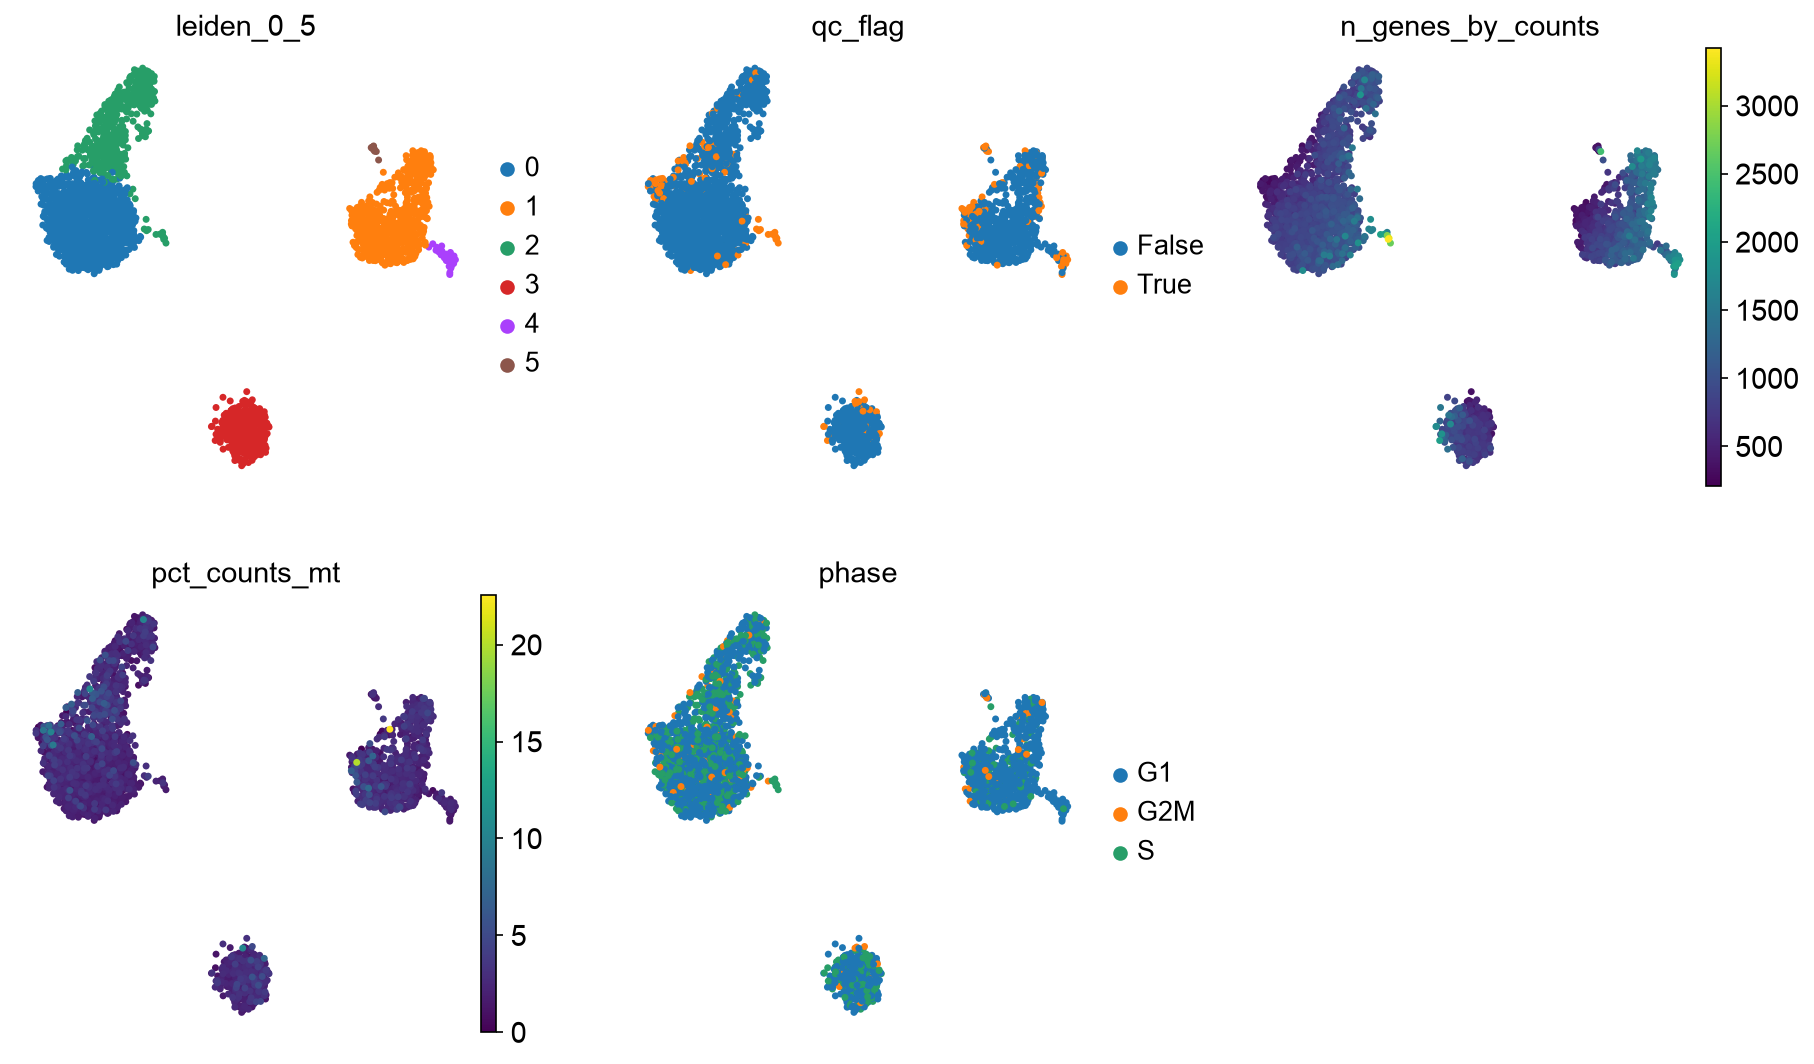
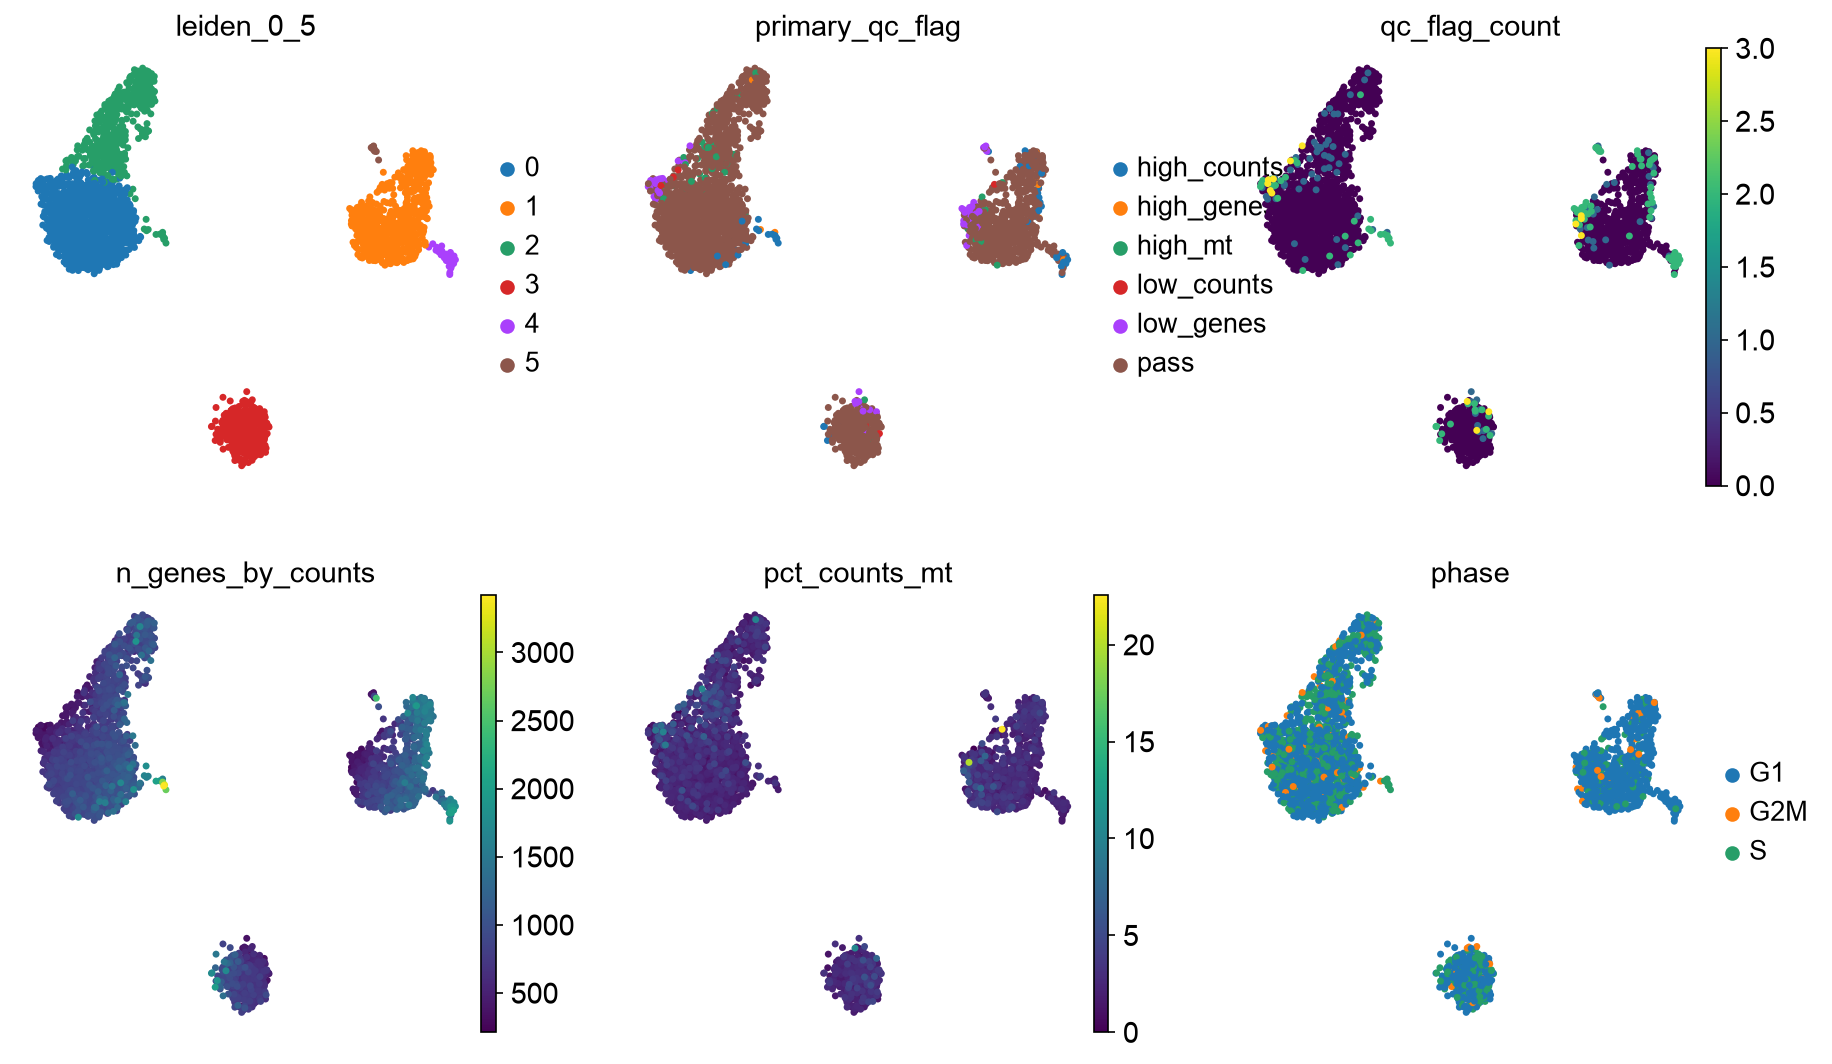
adding PC motivation

diff --git a/source/transcriptomics/scripts/generate_pbmc_scrna_figures.py b/source/transcriptomics/scripts/generate_pbmc_scrna_figures.py
@@ -5,6 +5,7 @@ import matplotlib
 matplotlib.use("Agg")
 
 import matplotlib.pyplot as plt
+from matplotlib.lines import Line2D
 import numpy as np
 import scanpy as sc
 
@@ -65,6 +66,29 @@ def score_cell_cycle(adata):
     sc.tl.score_genes_cell_cycle(adata, s_genes=s_present, g2m_genes=g2m_present)
 
 
+def encode_qc_flags(row):
+    labels = []
+
+    if row["qc_high_counts_low_genes"]:
+        labels.append("high_counts_low_genes")
+    else:
+        if row["qc_low_genes"]:
+            labels.append("low_genes")
+        if row["qc_high_counts"]:
+            labels.append("high_counts")
+
+    if row["qc_high_genes"]:
+        labels.append("high_genes")
+    if row["qc_low_counts"]:
+        labels.append("low_counts")
+    if row["qc_high_mt"]:
+        labels.append("high_mt")
+    if row["qc_predicted_doublet"]:
+        labels.append("predicted_doublet")
+
+    return ";".join(labels) if labels else "pass"
+
+
 def add_qc_flags(adata):
     thresholds = percentile_thresholds(adata)
     adata.uns["qc_thresholds"] = thresholds
@@ -100,6 +124,16 @@ def add_qc_flags(adata):
     ]
     adata.obs["qc_flag"] = adata.obs[qc_flag_columns].any(axis=1)
     adata.obs["qc_flag_count"] = adata.obs[qc_flag_columns].sum(axis=1)
+    adata.obs["qc_flags"] = adata.obs[qc_flag_columns].apply(
+        encode_qc_flags,
+        axis=1,
+    )
+    adata.obs["primary_qc_flag"] = (
+        adata.obs["qc_flags"]
+        .str.split(";")
+        .str[0]
+        .astype("category")
+    )
 
 
 def plot_percentile_thresholds(adata):
@@ -144,7 +178,18 @@ def plot_percentile_thresholds(adata):
 def plot_flagged_cells(adata):
     fig, axes = plt.subplots(1, 3, figsize=(14, 4), constrained_layout=True)
 
-    colors = adata.obs["qc_flag"].map({False: "#1f77b4", True: "#ff7f0e"})
+    flag_palette = {
+        "pass": "#1f77b4",
+        "high_counts_low_genes": "#d62728",
+        "low_genes": "#ff7f0e",
+        "high_counts": "#9467bd",
+        "high_genes": "#2ca02c",
+        "low_counts": "#8c564b",
+        "high_mt": "#e377c2",
+        "predicted_doublet": "#7f7f7f",
+    }
+    primary_flags = adata.obs["primary_qc_flag"].astype(str)
+    colors = primary_flags.map(flag_palette).fillna("#7f7f7f")
     axes[0].scatter(
         adata.obs["total_counts"],
         adata.obs["n_genes_by_counts"],
@@ -155,7 +200,23 @@ def plot_flagged_cells(adata):
     )
     axes[0].set_xlabel("total_counts")
     axes[0].set_ylabel("n_genes_by_counts")
-    axes[0].set_title("Any QC flag")
+    axes[0].set_title("Primary QC flag")
+    present_flags = [
+        flag for flag in flag_palette if flag in set(primary_flags)
+    ]
+    handles = [
+        Line2D(
+            [0],
+            [0],
+            marker="o",
+            color="white",
+            markerfacecolor=flag_palette[flag],
+            markersize=5,
+            label=flag,
+        )
+        for flag in present_flags
+    ]
+    axes[0].legend(handles=handles, frameon=False, fontsize=7, loc="best")
 
     colors = adata.obs["qc_high_mt"].map({False: "#1f77b4", True: "#ff7f0e"})
     axes[1].scatter(
@@ -246,7 +307,8 @@ def main():
         adata_work,
         color=[
             "leiden_0_5",
-            "qc_flag",
+            "primary_qc_flag",
+            "qc_flag_count",
             "n_genes_by_counts",
             "pct_counts_mt",
             "phase",

diff --git a/source/transcriptomics/single_cell_rna_seq.rst b/source/transcriptomics/single_cell_rna_seq.rst
@@ -403,7 +403,48 @@ Flag QC outliers, but do not remove them yet
    adata.obs["qc_flag"] = adata.obs[qc_flag_columns].any(axis=1)
    adata.obs["qc_flag_count"] = adata.obs[qc_flag_columns].sum(axis=1)
 
+   def encode_qc_flags(row):
+       """Return a readable, multi-label QC flag string for one cell."""
+       labels = []
+
+       if row["qc_high_counts_low_genes"]:
+           labels.append("high_counts_low_genes")
+       else:
+           if row["qc_low_genes"]:
+               labels.append("low_genes")
+           if row["qc_high_counts"]:
+               labels.append("high_counts")
+
+       if row["qc_high_genes"]:
+           labels.append("high_genes")
+       if row["qc_low_counts"]:
+           labels.append("low_counts")
+       if row["qc_high_mt"]:
+           labels.append("high_mt")
+       if row["qc_predicted_doublet"]:
+           labels.append("predicted_doublet")
+
+       return ";".join(labels) if len(labels) > 0 else "pass"
+
+   adata.obs["qc_flags"] = adata.obs[qc_flag_columns].apply(
+       encode_qc_flags,
+       axis=1,
+   )
+   adata.obs["primary_qc_flag"] = (
+       adata.obs["qc_flags"]
+       .str.split(";")
+       .str[0]
+       .astype("category")
+   )
+
    adata.obs[qc_flag_columns + ["qc_flag"]].sum().sort_values(ascending=False)
+   adata.obs["qc_flags"].value_counts()
+   adata.obs["primary_qc_flag"].value_counts()
+
+The boolean columns support filtering logic. ``qc_flags`` records the named
+reason or reasons for each cell, such as ``low_counts``, ``high_counts``,
+``high_mt``, or ``predicted_doublet``. ``primary_qc_flag`` stores one
+plot-friendly category per cell.
 
 
 Inspect flagged cells
@@ -419,7 +460,7 @@ Inspect flagged cells
            "pct_counts_mt",
            "doublet_score",
        ],
-       groupby="qc_flag",
+       groupby="primary_qc_flag",
        multi_panel=True,
        jitter=0.4,
    )
@@ -428,7 +469,7 @@ Inspect flagged cells
        adata,
        x="total_counts",
        y="n_genes_by_counts",
-       color="qc_flag",
+       color="primary_qc_flag",
    )
 
    sc.pl.scatter(
@@ -464,7 +505,8 @@ gene and count content can indicate doublets, but it can also reflect larger or
 more transcriptionally active cells. High UMI/count depth with low detected-gene
 content can reflect signal concentrated in a small set of genes, ambient or
 damaged-cell signal, or a real cell state with dominant transcripts. The first
-embedding should show where these flags fall before cells are removed.
+embedding should show where these flags fall before cells are removed. Keep the
+encoded ``qc_flags`` column so each cell carries the reason it was flagged.
 
 .. code-block:: python
 
@@ -720,10 +762,31 @@ Code
        ],
    )
 
-Choose number of PCs:
+Choose number of PCs
+~~~~~~~~~~~~~~~~~~~~
+
+The PCA variance-ratio plot is the elbow plot for this workflow. It shows how
+much variance is explained by each successive principal component. A useful
+starting point is the region where the curve begins to flatten: PCs before that
+point usually capture stronger structure, while PCs far into the flat tail are
+more likely to add noise.
+
+The elbow is a guideline, not a rule. Too few PCs can merge real cell states,
+rare populations, or continuous gradients. Too many PCs can carry technical
+variation, low-quality-cell structure, or noise into the neighbor graph. Small,
+fairly homogeneous datasets may work well with 15-30 PCs. Larger datasets,
+complex tissues, tumor samples, developmental trajectories, immune atlases, or
+datasets with rare cell populations may need 40, 50, or more PCs.
+
+After choosing ``n_pcs``, inspect whether clusters have coherent marker genes
+and whether UMAP structure is dominated by QC metrics such as count depth,
+mitochondrial fraction, doublet score, or cell cycle. If the representation is
+unstable or biologically implausible, rerun the neighbor graph and UMAP with a
+different PC count.
 
 .. code-block:: python
 
+   # Start near the elbow, then adjust based on dataset complexity and QC review.
    n_pcs = 30
 
 
@@ -739,7 +802,9 @@ Motivation
 ~~~~~~~~~~
 
 Clustering and UMAP are based on a graph of nearest neighbors. This graph is
-usually built from PCA coordinates, not directly from all genes.
+usually built from PCA coordinates, not directly from all genes. The ``n_pcs``
+choice controls which PCA dimensions are passed into this graph, so it directly
+affects clustering and UMAP.
 
 Code
 ~~~~
@@ -817,7 +882,7 @@ Code
        adata_work,
        color=[
            "leiden_0_5",
-           "qc_flag",
+           "primary_qc_flag",
            "qc_flag_count",
            "qc_high_counts_low_genes",
            "predicted_doublet",
@@ -837,7 +902,13 @@ If sample metadata exist:
 
    metadata_colors = [
        col
-       for col in ["sample", "condition", "leiden_0_5", "qc_flag", "phase"]
+       for col in [
+           "sample",
+           "condition",
+           "leiden_0_5",
+           "primary_qc_flag",
+           "phase",
+       ]
        if col in adata_work.obs
    ]
 
@@ -851,11 +922,11 @@ PBMC example output
 ~~~~~~~~~~~~~~~~~~~
 
 .. figure:: ../img/transcriptomics/scrna/pbmc_first_pass_umap_qc.png
-   :alt: PBMC 3k first-pass UMAP colored by Leiden cluster, QC flag, detected genes, mitochondrial fraction, and cell cycle phase.
+   :alt: PBMC 3k first-pass UMAP colored by Leiden cluster, primary QC flag, detected genes, mitochondrial fraction, and cell cycle phase.
 
-   First-pass PBMC 3k UMAP used for QC review. QC flags and cell cycle phase are
-   inspected in the same embedding as the clustering result before cells are
-   removed.
+   First-pass PBMC 3k UMAP used for QC review. Encoded QC flags and cell cycle
+   phase are inspected in the same embedding as the clustering result before
+   cells are removed.
 
 
 Summarize QC flags and cell cycle by cluster
@@ -900,6 +971,14 @@ experiment.
    )
 
    qc_by_cluster
+
+   qc_primary_by_cluster = pd.crosstab(
+       adata_work.obs["leiden_0_5"],
+       adata_work.obs["primary_qc_flag"],
+       normalize="index",
+   )
+
+   qc_primary_by_cluster
 
 
 15. Review QC decisions and rerun representation
@@ -1232,9 +1311,11 @@ Recommended report items
 * Dataset-level percentile values used.
 * Gene detection threshold used for gene filtering.
 * Cell cycle gene set used and whether gene identifiers were converted.
+* Number of PCs used and how the elbow plot informed that choice.
 * Whether any covariates were regressed, corrected, stratified, or left unchanged.
 * Whether ambient RNA/background correction was considered.
 * Number and fraction of cells flagged before removal.
+* Counts and fractions for encoded QC reasons in ``qc_flags`` and ``primary_qc_flag``.
 * Number and fraction of cells removed after QC review.
 * First-pass UMAP colored by QC flags, doublet score, QC metrics, and cell cycle phase.
 * Proportion of QC-flagged cells per first-pass cluster.
@@ -1273,6 +1354,17 @@ Example summary table
 
    qc_report.to_csv("qc_report_summary.csv", index=False)
    qc_report
+
+   qc_reason_counts = adata.obs["primary_qc_flag"].value_counts()
+   qc_reason_fractions = adata.obs["primary_qc_flag"].value_counts(normalize=True)
+
+   qc_reason_summary = pd.DataFrame({
+       "n_cells": qc_reason_counts,
+       "fraction": qc_reason_fractions,
+   })
+
+   qc_reason_summary.to_csv("qc_flag_reason_summary.csv")
+   qc_reason_summary
 
 
 21. Workflow summary
